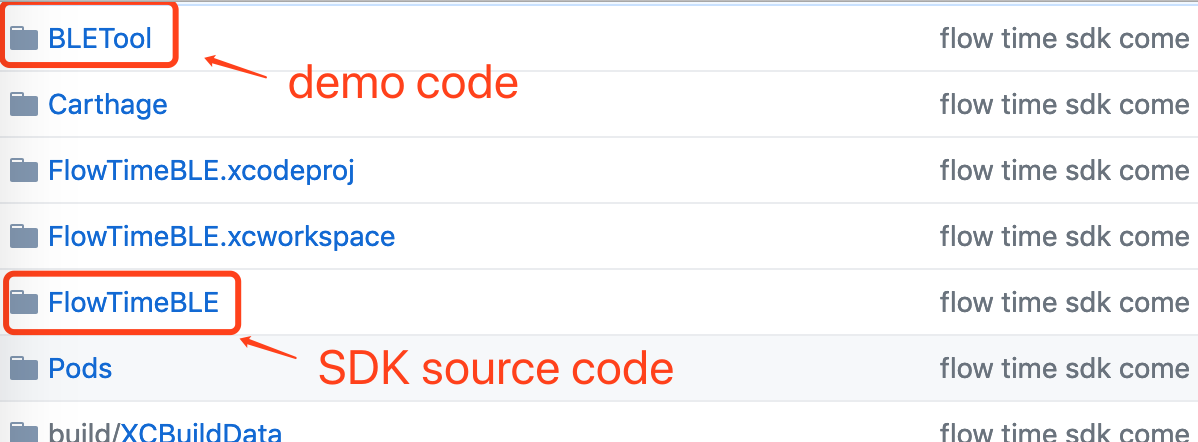
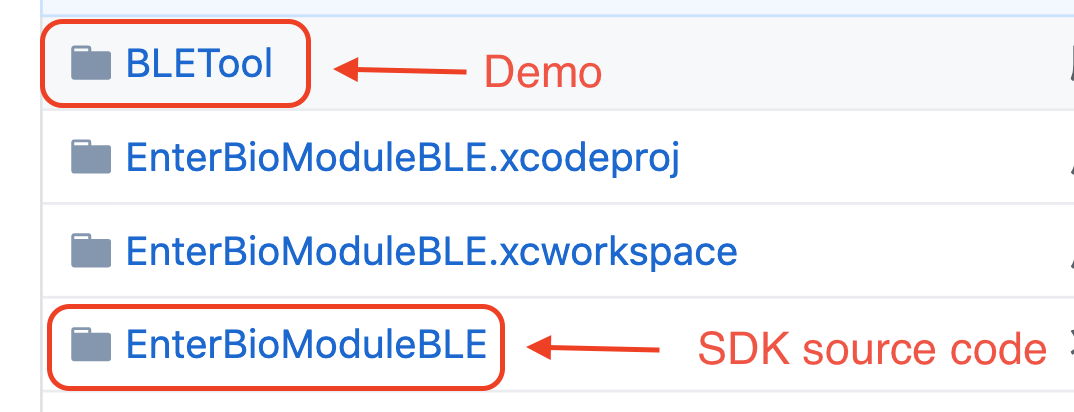
更新文档

diff --git a/BLETool/Service/SDKService.swift b/BLETool/Service/SDKService.swift
@@ -1,0 +1,17 @@
+//
+//  SDKService.swift
+//  BLETool
+//
+//  Created by Enter on 2019/8/26.
+//  Copyright © 2019 EnterTech. All rights reserved.
+//
+
+import UIKit
+import EnterBioModuleBLE
+
+public class SDKService: NSObject {
+    public static let shared = SDKService()
+    public let bleManager = BLEManager()
+    private override init() {}
+    
+}

diff --git a/EnterBioModuleBLE/BLEManager.swift b/EnterBioModuleBLE/BLEManager.swift
@@ -98,7 +98,7 @@ public class BLEManager {
     private var disposalbe: Disposable?
     
     // MARK: - connect logic
-    /// Scan peripheral and connect
+    /// Scan peripheral with 3 second and connect
     ///
     /// - Parameters:
     ///   - completion: 完成回调

diff --git a/EnterBioModuleBLE/Service/DFUService.swift b/EnterBioModuleBLE/Service/DFUService.swift
@@ -21,6 +21,8 @@ extension DFUService: ServiceTypable {
         return .dfu
     }
 }
+
+// TODO: - DFU
 //
 //public class DFU: DFUProgressDelegate, DFUServiceDelegate {
 //    var fileURL: URL!

diff --git a/README.md b/README.md
@@ -18,6 +18,10 @@
         * [同时获取心率和脑电数据](#同时获取心率和脑电数据)
         * [佩戴检测](#佩戴检测)
         * [DFU 服务](#DFU-服务)
+    * [整合接口BLEManager](#整合接口BLEManager)
+        * [蓝牙连接](#蓝牙连接)
+        * [脑电服务订阅](#脑电服务订阅)
+        * [心率数据订阅](#心率数据订阅)
 
 # SDK 说明
 ## 介绍
@@ -111,6 +115,7 @@ firstly {
 ~~~swift
 connector.cancel()
 ~~~
+
 
 > 蓝牙服务说明
 > 服务一般有三类应用：单个普通服务、服务的组合以及 DFU 服务。
@@ -334,4 +339,85 @@ let initiator = DFUServiceInitiator(centralManager: self.cManager, target: self.
     // 将 DFUFirmware 对象给 DFUServiceInitiator 对象开始固件更新。
     let _ = initiator.with(firmware: firmware!).start()
 ~~~
+
+
+> 为了能够简单快捷的调用以上硬件连接接口和服务接口，我们将以上介绍的接口做了整合，可根据自己需求选择使用
+## 整合接口BLEManager
+
+### 蓝牙连接
+
+~~~swift 
+// 扫描周围设备3秒，取信号最强的一个进行连接, 同时将开启电量服务
+let manager = BLEManager()
+manager.scanAndConnect { completed in
+    // your code
+}
+~~~
+
+~~~swift 
+// 断开链接
+manager.disconnect()
+~~~
+
+实现订阅协议 BLEStateDelegate, 获取连接状态，获取电量
+~~~swift 
+manager.delegate = self
+
+/// 数据连接的代理方法
+func bleConnectionStateChanged(state: BLEConnectionState, bleManager: BLEManager) {}
+
+/// 电量获取的代理方法
+func bleBatteryReceived(battery: Battery, bleManager: BLEManager) {}
+~~~
+
+
+### 脑电服务订阅
+
+~~~swift 
+// 订阅脑电数据，并打开脱落检测
+manager.startEEG()
+~~~
+
+~~~swift 
+// 关闭脑电数据订阅
+manager.stopEEG()
+~~~
+
+实现订阅协议 BLEBioModuleDataSource, 获取EEG数据
+~~~swift 
+// 关闭脑电数据订阅
+manager.dataSource = self
+
+/// eeg数据获取的代理方法
+func bleBrainwaveDataReceived(data: Data, bleManager: BLEManager){}
+~~~
+
+### 心率数据订阅
+
+~~~swift 
+// 关闭脑电数据订阅
+manager.startHeartRate()
+~~~
+
+~~~swift 
+// 关闭脑电数据订阅
+manager.stopHeartRate()
+~~~
+
+实现订阅协议 BLEBioModuleDataSource, 获取心率数据
+~~~swift 
+// 关闭脑电数据订阅
+manager.dataSource = self
+
+/// 心率获取的代理方法
+func bleHeartRateDataReceived(data: Data, bleManager: BLEManager){}
+~~~
+
+
+
+
+
+
+
+
 
